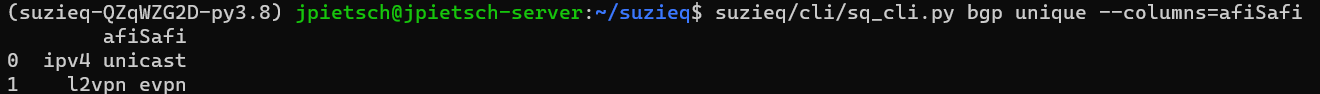
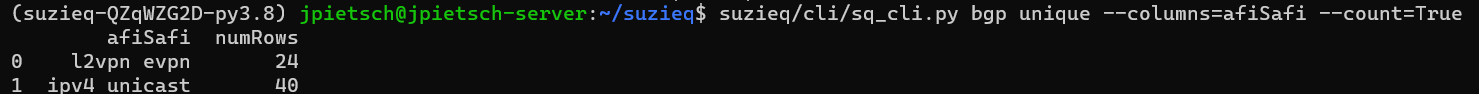
update XNA to have a more coherent end-to-end story

diff --git a/_drafts/2021-04-201-Exploratory-Network-Analysis.md b/_drafts/2021-04-201-Exploratory-Network-Analysis.md
@@ -53,46 +53,51 @@ Suzieq is using standard data science tools like Python, Pandas, and Parquet. We
 
 ## An example of understanding a network in general
 
-Let's say that I'm new to a network, either I'm a consultant looking at my customer's network for the first time or I'm a new operator at a company. I want to understand what it is in the network and how it works. ![Suzieq device show](/assets/images/2021-04-xna/device.png)
-This gives you an idea of what devices are in your network. From the summary table you can see that it's made up of several namespaces. Namespaces are a logical collection of devices in Suzieq. From the histogram on the top right, you can see the NOSes and how many devices in each. So this is a pretty simple network, and all the OSes are consistent, which is nice. 
+Let's say that I'm new to a network, either I'm a consultant looking at my customer's network for the first time or I'm a new operator at a company. I want to understand what it is in the network and how it works. I'll start by looking at the devices in the network. ![Suzieq device show](/assets/images/2021-04-xna/device.png)
+This gives you an idea of what devices are in your network. In this case there is just one namespace. Namespaces are a logical collection of devices in Suzieq. From the histogram on the top right, you can see the NOSes and how many devices in each. So this is a pretty simple network, and all the OSes are consistent, which is nice. There are 14 total devices: 8 are Cisco, 5 Ubuntu servers, and 1 Juniper. No devices are down and they are all polled successfully. 
 
-Let's look around, starting with routing protocols. As mentioned above, Suzieq collects operational state, like the OSPF neighbor information and BGP connections. You can view each of these, but for our purposes here to get a general overview, Suzieq has a summarize command. 
-
-### OSPF
+Let's look around, starting with routing protocols. As mentioned above, Suzieq collects operational state, like the OSPF neighbor information and BGP connections. You can view each of these, but for our purposes here to get a general overview, Suzieq has a summarize command which is the same information as the Summary Information in the GUI on the Xplore page. 
 
 First we'll look at OSPF, using the CLI. ![Suzieq OSPF summarize CLI](/assets/images/2021-04-xna/ospf-summarize.png)
-This gives you a good summary of OSPF in this network. There are 8 OSPF speakers, all in the same area 0, all in the same VRF. You can see the important OSPF timers as well. That seems straightforward, ok.
+This gives you a good summary of OSPF in this network. There are 8 OSPF speakers, all in the same area 0, all in the same VRF. You can see the important OSPF timers as well. There are 24 unnumbered Peers, which is pretty cool. In this network  there aren't an ABR, but if there were, I'd like to see how many there are. One odd thing is the 16 passive Peer connections. What are those? Let's see if we can figure that out. We can look at individual OSPF sessions with 'ospf show' and we can filter by those sessions that are just passive.  ![Suzieq OSPF show passive peers](/assets/images/2021-04-xna/ospf-show-passive.png). This shows us that they are all loopback interfaces. That seems fine, so nothing to worry about.
 
-### BGP
+
 
 How about BGP?![Suzieq BGP summarize GUI](/assets/images/2021-04-xna/bgp-summarize.png)
-There are 10 BGP speakers; interestingly different than the number of OSPF speakers. There is eBGP, no iBGP, no Route Reflectors, IPv4. We see that there are 2 active Afi/Safis. Let's look to see what those are. ![BGP AfiSafi](/assets/images/2021-04-xna/bgp-afisafi.png) This shows us we have IPv4 and EVPN.
+There are 10 BGP speakers; interestingly different than the number of OSPF speakers. Let's look at that. We can use the unique verb for both ospf and bgp to show us what hosts are participating in each. ![Suzieq hostname unique](/assets/images/2021-04-xna/unique-hostnames.png) Ah, BGP has dcedge01 and firewall01 that OSPF doesn't have. That makes sense.
+
+
+Let's get back to BGP, there is eBGP, and iBGP, no Route Reflectors, IPv4. We see that there are 2 active Afi/Safis. Let's look to see what those are. ![BGP AfiSafi](/assets/images/2021-04-xna/bgp-afisafi.png) This shows us we have IPv4 and EVPN. Because I used the count=True flag, we can see that there are 24 l2vpn evpn sessions. In the summary above, one of the interesting things is the 24 iBGP and 16 eBGP sessions. We can assume that the 24 iBGP for eVPN and the eBGP are for something else. We don't have a great way to look directly at what is eBGP vs eBGP in Suzieq. We need to add that.
+
+If you really want to look at BGP, Suzieq is collecting more data than is shown by default. To see all the data that is being collected for a table, use table describe. ![bgp describe](/assets/images/2021-04-xna/bgp-describe.png) We're not going to look at those all now.
+
 
 We can look at EVPN to get an an overview also. It's symmetric EVPN, some L2 and L3, and no multicast.
-![Suzieq EVPN summarize](/assets/images/2021-04-xna/evpnVni-summarize.png)
+![Suzieq EVPN summarize](/assets/images/2021-04-xna/evpnVni-summarize.png) 
 
-From these summaries we know what protocols we have, and a summary of each one.
-
-### MTU
-We have a screencast that goes into depth on investigating various aspects of MTU in your network
-<iframe width="560" height="315" src="https://www.youtube.com/embed/aAh1sJowDXI" frameborder="0" allow="accelerometer; autoplay; clipboard-write; encrypted-media; gyroscope; picture-in-picture" allowfullscreen></iframe>
+From these summaries we know what protocols we have, and a summary of each one. This gave us a pretty good overview and understanding of this network.
 
 
 ### Path Trace
 Sometimes you need to dive into a particular question to understand your network.  Suzieq can show you the forwarding decisions that routers make from a source, destination pair with the path command. ![Suzeq path trace](/assets/images/2021-04-xna/path-show-server101-server302.png) You can see that it's going from one server to another, the first and last hops are L2 and in the middle are some form of tunneling. Clicking on the link spine01 to exit01, you will see how the forwarding decisions are made. ![Suzieq path debug](/assets/images/2021-04-xna/leaf01-spine01-debug.png) You can see all the forwarding decisions for that hop and that the route was populated by BGP.
+
+### Routes
+
+Let's get an idea of what's in the routing table. ![Suzieq routes vrf](/assets/images/2021-04-xna/routes-vrf.png) The summary is a great place to start again. You can see the number of devices and total number of prefixes, host route count, IPv4 and IPv6 addresses, etc. In Suzieq Summary, anytime there is something named *Cnt, that is a list of things that might be interesting. If there are three or less, then Suzieq will display in the summary. If more than 3, you can use the Distribution Count in the GUI or the unique command in the CLI. In this case, we see there are 4 VRFs, and so we want to see which 4 VRFs they are and how many routes are in each VRF.
+
+We can explore more, for instance, there are 11 protocols in the routes table, so we can see what they are and how many routes are from each of the protocols. ![Suzieq routes  protocols](/assets/images/2021-04-xna/routes-protocol.png) That looks like the protocols I expect, and some weird NXOS stuff that seems fine.
+
+## Deep Dive
+I've most showed how to get an overview of your network with Suzieq, but if you want to dive in deep, Suzieq gives you that ability also. 
+
+We have a screencast that goes into depth on investigating various aspects of MTU in your network
+<iframe width="560" height="315" src="https://www.youtube.com/embed/aAh1sJowDXI" frameborder="0" allow="accelerometer; autoplay; clipboard-write; encrypted-media; gyroscope; picture-in-picture" allowfullscreen></iframe>
 
 We have a screencast to show off Path Trace:
 <iframe width="560" height="315" src="https://www.youtube.com/embed/4wZot1FBmrQ" frameborder="0" allow="accelerometer; autoplay; clipboard-write; encrypted-media; gyroscope; picture-in-picture" allowfullscreen></iframe>
 
 And a have longer dive into troubleshooting Path with Suzieq:
 <iframe width="560" height="315" src="https://www.youtube.com/embed/kaCANwgUP3Y" frameborder="0" allow="accelerometer; autoplay; clipboard-write; encrypted-media; gyroscope; picture-in-picture" allowfullscreen></iframe>
-
-### Routes
-
-Let's get an idea of what's in the routing table. ![Suzieq routes vrf](/assets/images/2021-04-xna/routes-vrf.png) The summary is a great place to start again. You can see the number of devices and total number of prefixes, host route count, IPv4 and IPv6 addresses, etc. In Suzieq Summary, anytime there is something named *Cnt, that is a list of things that might be interesting. If there are three or less, then Suzieq will display in the summary. If more than 3, you can use the Distribution Count in the GUI or the unique command in the CLI. In this case, we see there are 4 VRFs, and so we want to see which 4 VRFs they are and how many routes are in each VRF.
-
-We can explore more, for instance, there are 5 protocols in the routes table, so we can see what they are and how many routes are from each of the protocols. ![Suzieq routes  protocols](/assets/images/2021-04-xna/routes-protocol.png)
-
 
 ## How is this different than observability
 We've written about [Network Observability](https://elegantnetwork.github.io/posts/observability/) and it is very related to this area of XNA, it's just coming from a different field (Devops vs Statistics and Data Analysis). Observability focuses on being able to ask arbitrary questions in your network just like XNA. I would say that a good observability platform allows you to do this kind of Exploration. The point of EDA and XNA is to enable the exploration that is needed.
